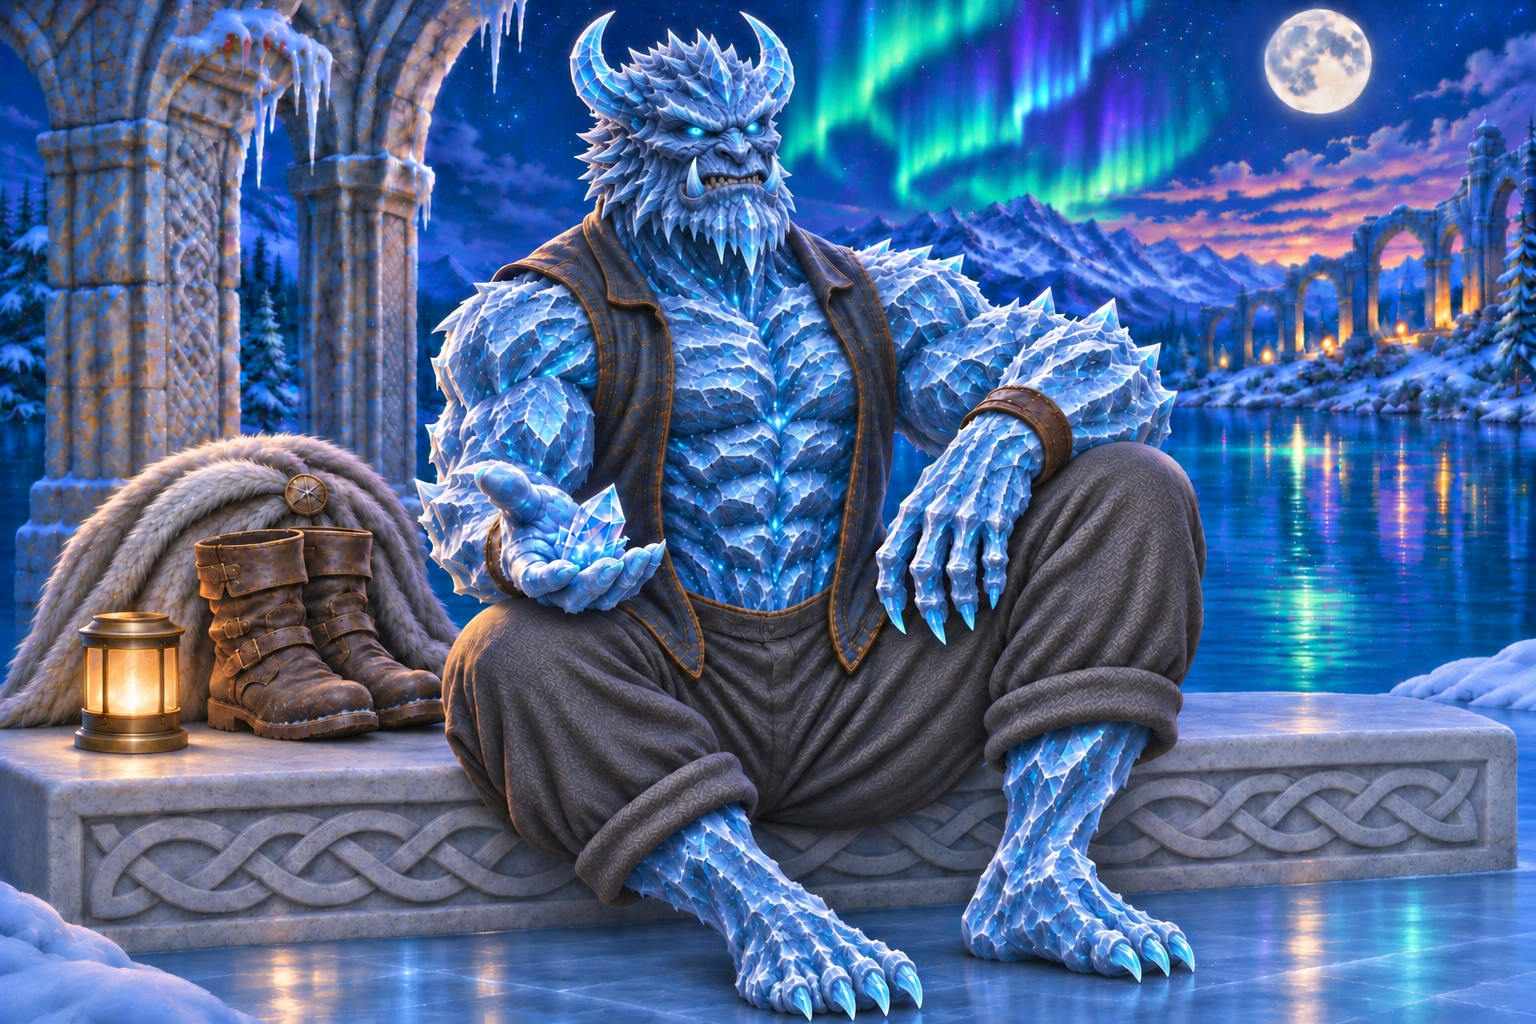
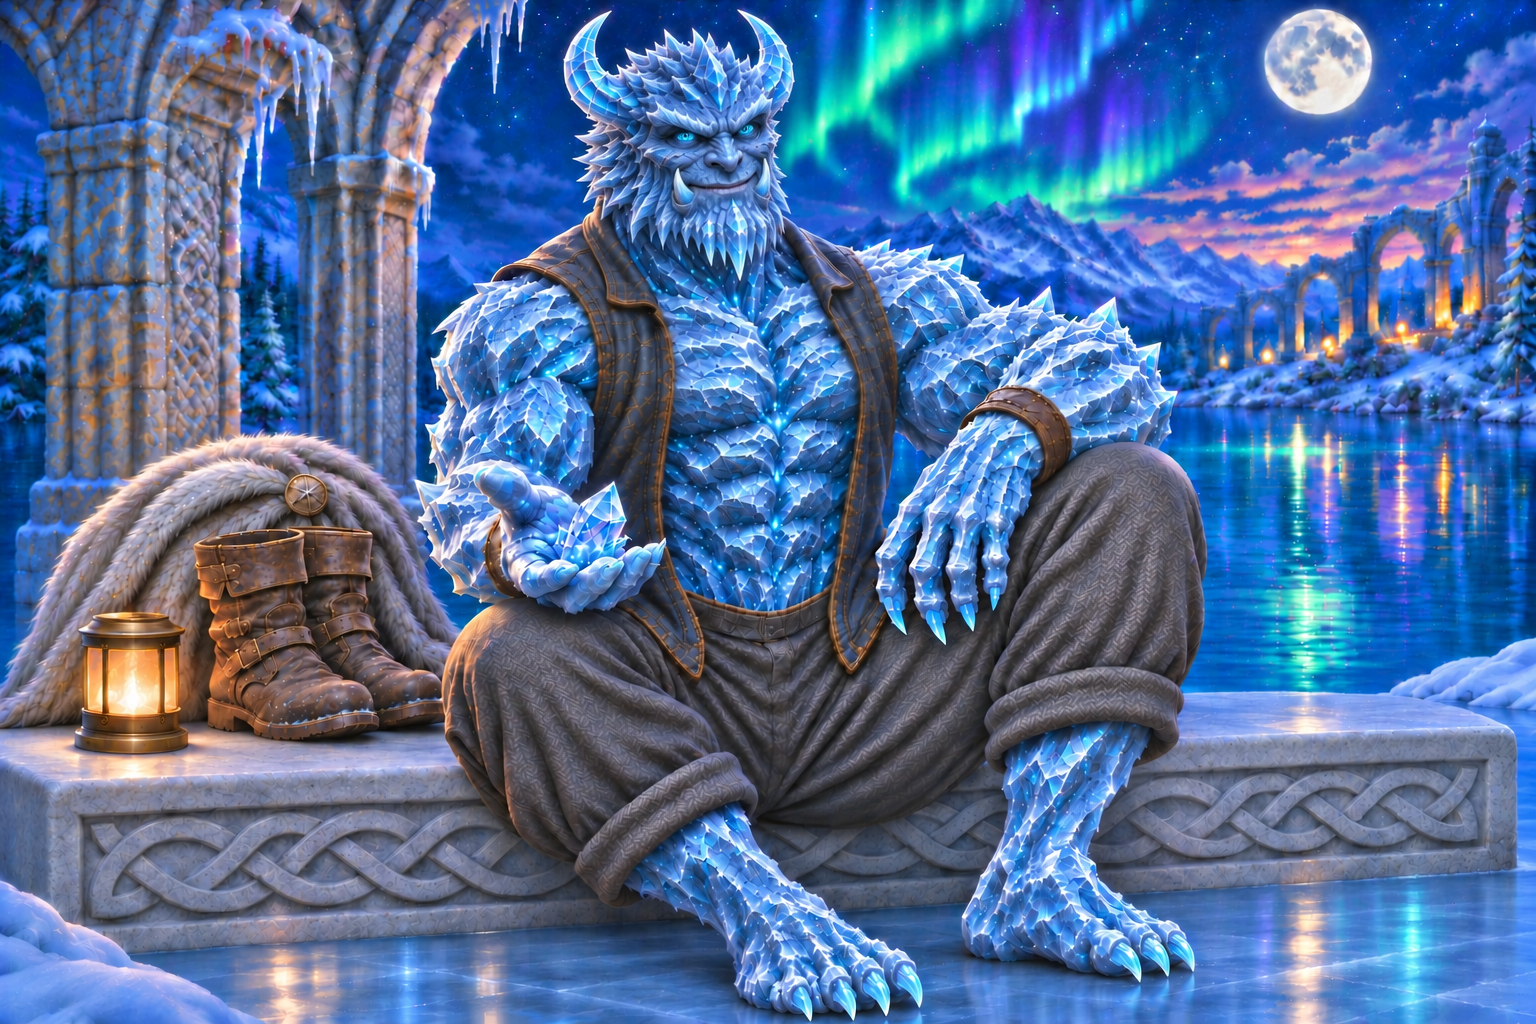
Soften frost giant expressions and align monster gazes

diff --git a/tests/art-review.spec.ts b/tests/art-review.spec.ts
@@ -17,12 +17,12 @@ for (const width of [1280, 390]) {
         await expect(dialog).toBeVisible();
         await expect(page.locator('#mask-note')).toContainText('红色区域');
         const mask = monster ? `monster/${id}/mask.png` : LEVELS[id - 1].mask;
-        const art = monster ? (id === 10 ? `monster/${id}/restored.webp` : `review/monster-forms/${id}.png`) : LEVELS[id - 1].restored;
+        const art = monster ? ([8, 10].includes(id) ? `monster/${id}/restored.webp` : `review/monster-forms/${id}.png`) : LEVELS[id - 1].restored;
         await expect(page.locator('#mask-base')).toHaveAttribute('src', `../${art}`);
         await expect(page.locator('#mask-raw')).toHaveAttribute('src', `../${mask}`);
         await expect(page.locator('#mask-download')).toHaveAttribute('href', `../${mask}`);
         await expect(page.locator('#mask-caption')).toContainText(monster ? '魔物形态' : '人形');
-        if (monster && id === 10) await expect(page.locator('#mask-note')).toContainText('游戏中使用的魔物成图');
+        if (monster && [8, 10].includes(id)) await expect(page.locator('#mask-note')).toContainText('游戏中使用的魔物成图');
         const overlay = await page.locator('#mask-overlay').evaluate((canvas: HTMLCanvasElement) => {
           const { data } = canvas.getContext('2d')!.getImageData(0, 0, canvas.width, canvas.height);
           let colored = 0, clear = 0;
